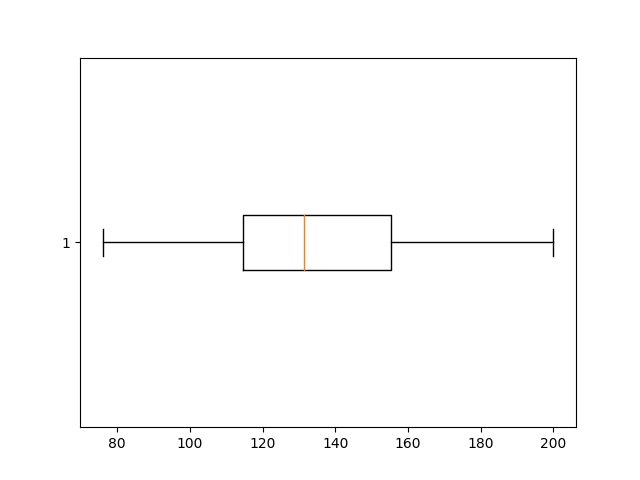
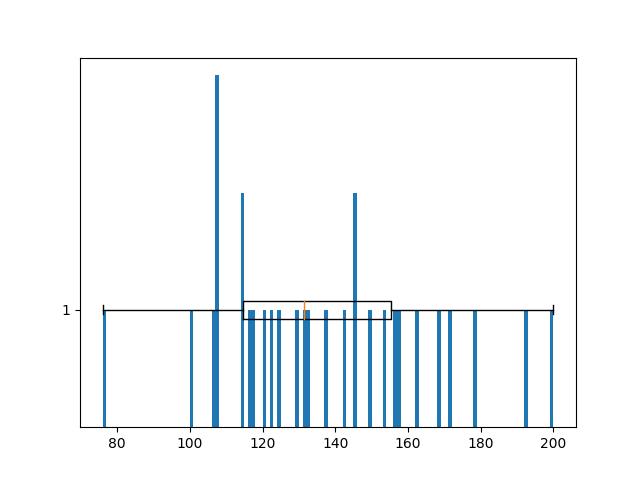
other

Changed region(s): [[0.1562, 0.1562, 0.875, 0.9062], [0.0938, 0.625, 0.125, 0.6562]]

diff --git a/stats.py b/stats.py
@@ -35,12 +35,12 @@ class APStats():
         variance = round(statistics.variance(self.data), 2)
         print(f'variance = {variance}{self.unit} squared.')
     
-    def histogram(self, name, n = max(data) - min(data)):
-        plt.figure(1)
+    def histogram(self, name, n):
+        # plt.figure(1)
         plt.hist(self.data, n)
         plt.savefig(name)
     
     def boxplot(self, name):
-        plt.figure(2)
+        # plt.figure(2)
         plt.boxplot(self.data, vert=False)
         plt.savefig(name)

diff --git a/test.py b/test.py
@@ -3,7 +3,7 @@ from stats import *
 data = [200, 192, 178, 171, 168, 162, 157, 156, 153, 149, 145, 145, 142, 137, 132, 131, 129, 124, 122, 120, 117, 116, 114, 114, 107, 107, 107, 106, 100, 76]
 
 stats = APStats(data, ' homeruns')
-stats.histogram("histogram.png")
+stats.histogram("histogram.png", max(data) - min(data))
 stats.boxplot("boxplot.png")
 
 stats.mean()
